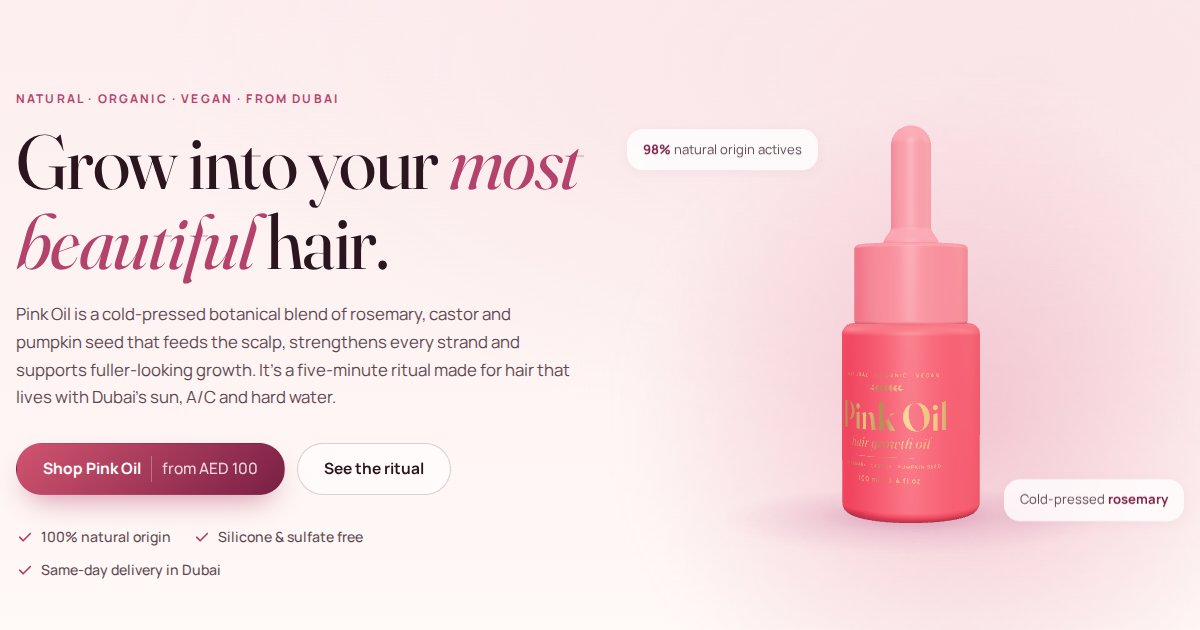
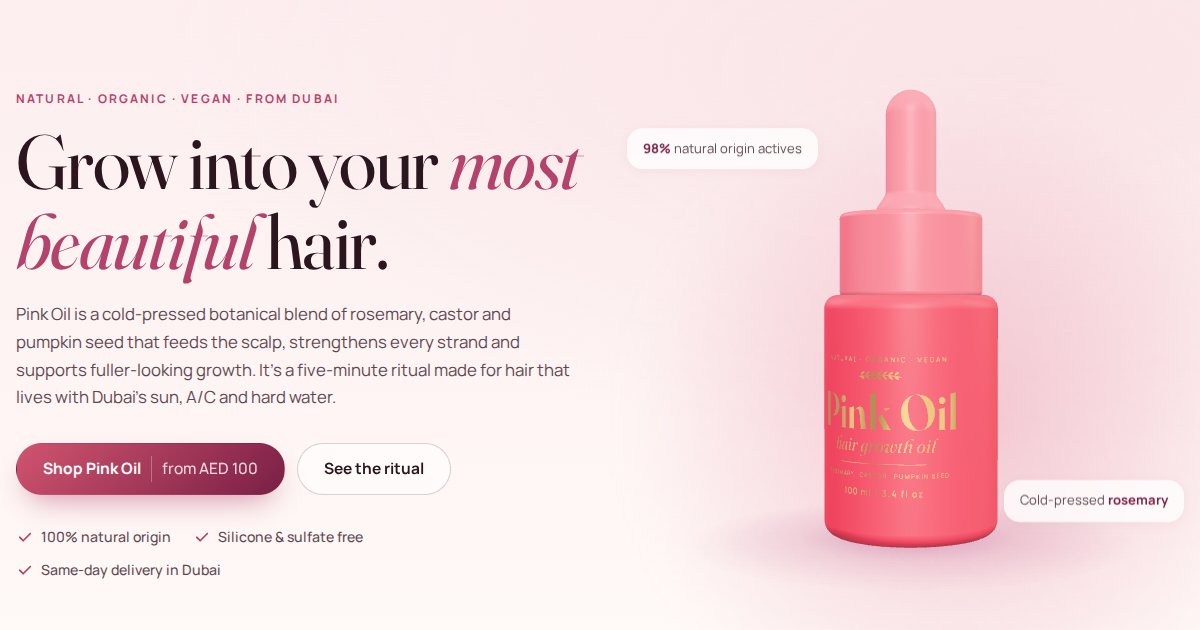
Shorter cap and dropper; larger bottle in frame for clearer lettering
- Cap and dropper bulb shortened to match the real bottle's proportions
- Bottle fills more of the 3D viewers; camera re-centred
- On phones, hide the second floating chip so it doesn't cover the print
- Re-render product photo and social image

Claude-Session: https://claude.ai/code/session_01DFs3jtfENwvkuyvkvMviti

Changed region(s): [[0.6783, 0.1206, 0.9867, 0.9048], [0.5242, 0.2111, 0.6783, 0.2413]]

diff --git a/src/js/bottle3d.js b/src/js/bottle3d.js
@@ -65,8 +65,8 @@ const COLORS = {
 };
 const BODY_H = 2.75;
 const CAP_R = 0.82;
-const CAP_H = 1.15;
-const MODEL_SCALE = 0.78; // keeps the full bottle (≈5.7 units tall) framed like before
+const CAP_H = 0.95;
+const MODEL_SCALE = 0.98; // full bottle ≈5.3 units tall, filling most of the frame so the print reads clearly
 
 /** Lathe profile for a cylinder with rounded top and bottom edges. */
 function roundedCylinder(r, h, fillet, y0 = 0, steps = 8) {
@@ -91,7 +91,7 @@ function bulbProfile(y0) {
     const t = i / 6;
     pts.push(new Vector2(MathUtils.lerp(0.4, r, t * t * (3 - 2 * t)), y0 + 0.05 + t * 0.22));
   }
-  const top = y0 + 1.45;
+  const top = y0 + 1.15;
   pts.push(new Vector2(r, top));
   for (let i = 1; i <= 12; i++) {
     const a = (i / 12) * (Math.PI / 2);
@@ -274,8 +274,8 @@ export async function mountBottle(stage, { autoRotate = 0.35, scrollSpin = false
   scene.add(key, rim, fill);
 
   const camera = new PerspectiveCamera(28, 1, 0.1, 100);
-  camera.position.set(0, 2.4, 13);
-  camera.lookAt(0, 2.05, 0);
+  camera.position.set(0, 2.65, 13);
+  camera.lookAt(0, 2.3, 0);
 
   await fontsReady();
 
@@ -287,7 +287,7 @@ export async function mountBottle(stage, { autoRotate = 0.35, scrollSpin = false
   rig.add(a.group, b.group);
 
   const shadow = new Mesh(
-    new PlaneGeometry(4.2, 4.2),
+    new PlaneGeometry(5, 5),
     new MeshBasicMaterial({ map: softShadowTexture(), transparent: true, depthWrite: false }),
   );
   shadow.rotation.x = -Math.PI / 2;

diff --git a/src/index.html b/src/index.html
@@ -98,9 +98,9 @@
               <linearGradient id="pk" x1="0" x2="1"><stop offset="0" stop-color="#d9687a"/><stop offset=".45" stop-color="#f497a4"/><stop offset="1" stop-color="#d9687a"/></linearGradient>
             </defs>
             <ellipse cx="100" cy="306" rx="70" ry="8" fill="#7a1f45" opacity=".12"/>
-            <path d="M89 64h22v-30a11 11 0 0 0-22 0Z" fill="url(#pk)"/>
-            <rect x="85" y="59" width="30" height="9" rx="3" fill="url(#pk)"/>
-            <rect x="66" y="66" width="68" height="62" rx="5" fill="url(#pk)"/>
+            <path d="M89 74h22v-24a11 11 0 0 0-22 0Z" fill="url(#pk)"/>
+            <rect x="85" y="69" width="30" height="9" rx="3" fill="url(#pk)"/>
+            <rect x="66" y="76" width="68" height="52" rx="5" fill="url(#pk)"/>
             <rect x="56" y="126" width="88" height="176" rx="12" fill="url(#pb)"/>
             <g fill="#f2d08f" text-anchor="middle">
               <text x="100" y="186" font-family="Arial,sans-serif" font-size="4" letter-spacing=".4">NATURAL · ORGANIC · VEGAN</text>

diff --git a/src/css/styles.css b/src/css/styles.css
@@ -389,6 +389,9 @@ button { cursor: pointer; }
   .hero__cta, .hero__trust { justify-content: center; }
   .stage--hero { order: -1; max-width: 420px; margin: 0 auto -12px; aspect-ratio: 1 / 0.95; }
   .stage__chip--a { inset-inline-start: 0; top: 10%; }
+  /* Keep the bottle's gold print clear on small screens. */
+  .stage__chip--b { display: none; }
+  .stage--hero .stage__hint { bottom: -3%; }
   .ritual .section__head { position: static; }
   .ingredients__list { flex-direction: row; overflow-x: auto; scrollbar-width: none; padding-bottom: 6px; scroll-snap-type: x mandatory; }
   .ingredients__list::-webkit-scrollbar { display: none; }
